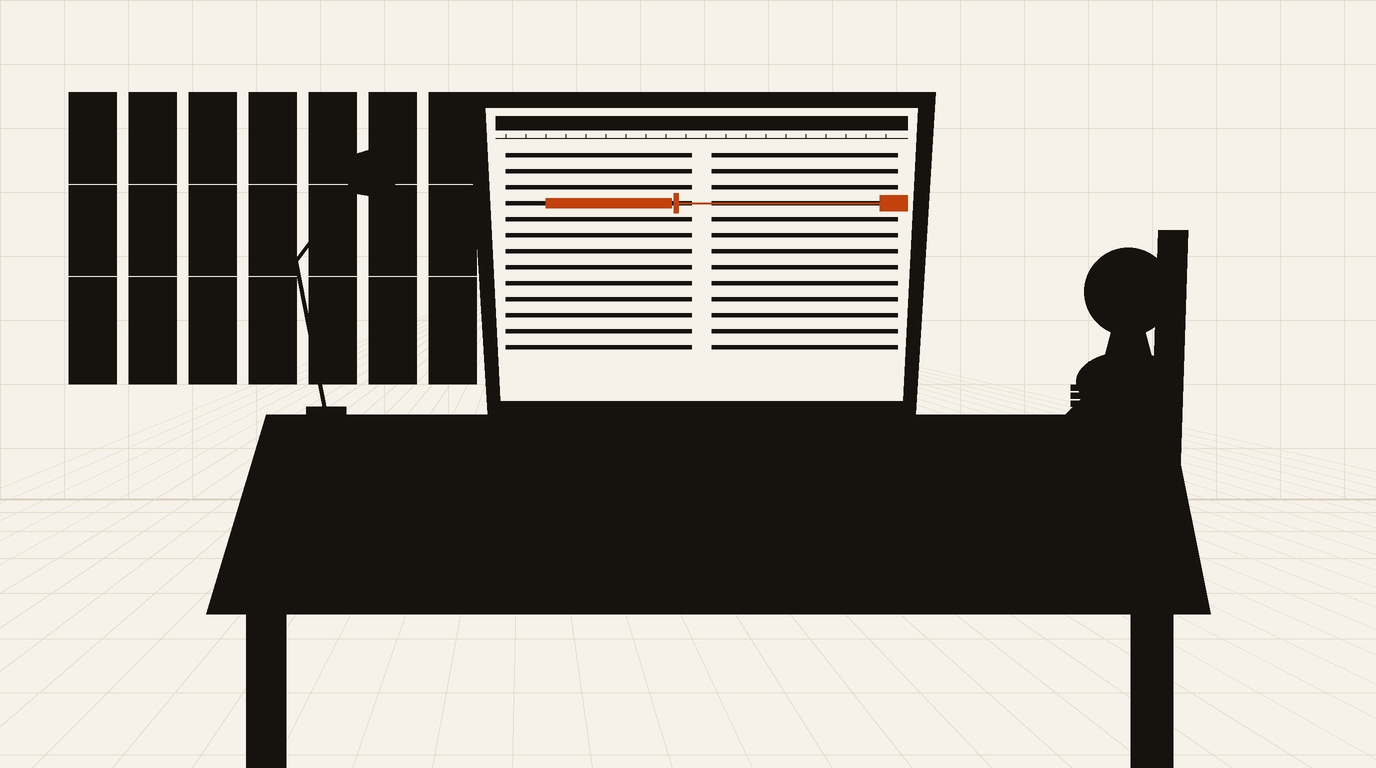
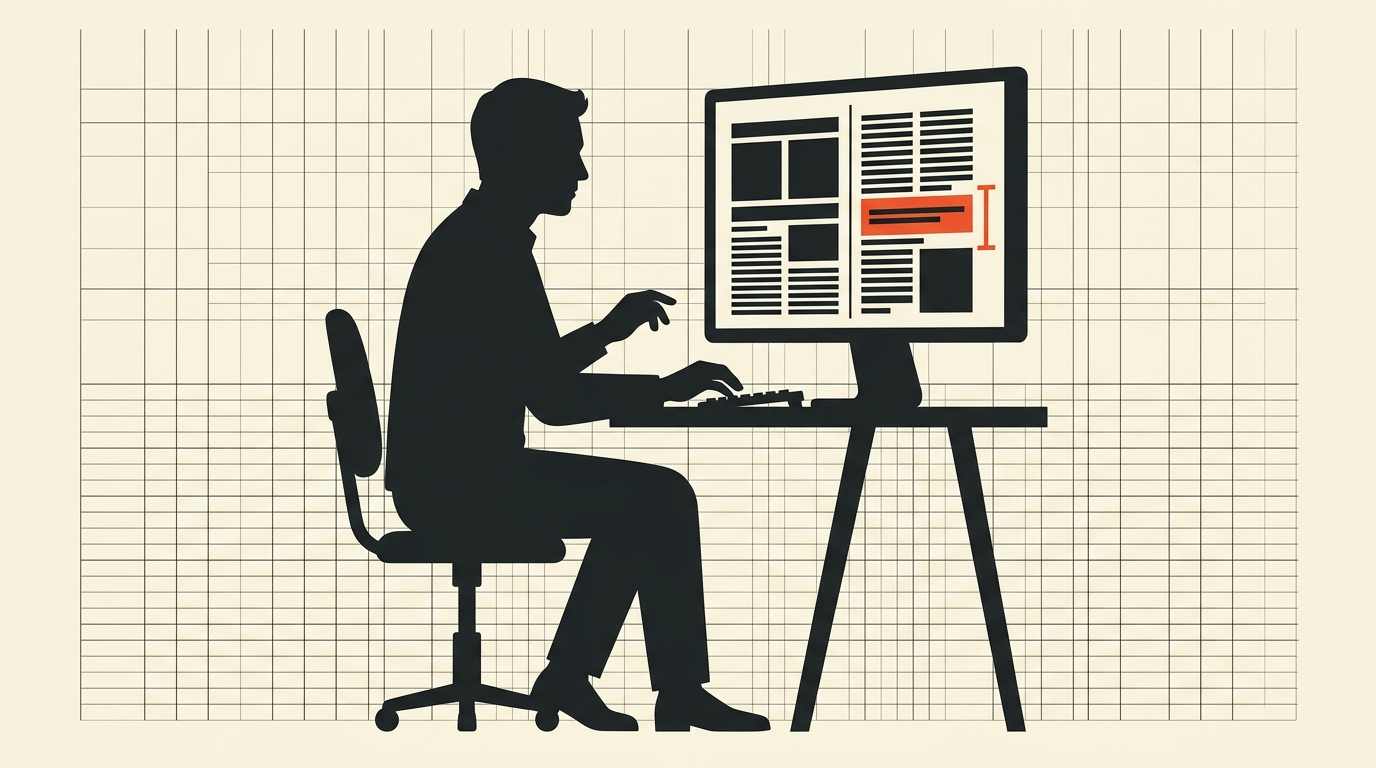
allen and dhruv

diff --git a/demo-news/src/content/news/allen-kota-classroom-gunfire-claim-fact-check.md b/demo-news/src/content/news/allen-kota-classroom-gunfire-claim-fact-check.md
@@ -30,7 +30,7 @@ featured: false
 trending: true
 ---
 
-**Short answer:** On October 16, 2026, a violent brawl erupted between two 11th-grade students at Allen Career Institute's Sabal campus in Kota. Viral social media posts claimed that a student opened fire with a live firearm. Local police confirmed that no gunshots occurred. An accused student pulled an air gun from his backpack and struck his classmate with the weapon handle. The physical assault caused severe facial and head injuries. Police detained the accused student on site, while the injured boy remains under medical care in an intensive care unit.
+**Short answer:** A violent fight broke out between two 11th grade students on October 16, 2026, at the Sabal campus of Allen Career Institute in Kota. Social media was rife with claims of one of the students using a real gun to shoot. However, according to the local authorities, there were no shots fired. One of the accused used an air gun to attack his fellow student by striking him with the gun itself. The attack left the victim injured in face and head areas.
 
 ## 1. What the viral post shows
 
@@ -38,37 +38,37 @@ The incident surfaced after mobile phone footage circulated widely across X and 
 
 Initial social media posts claimed that an 11th-grade Nurture batch student drew a handgun from his bag. The narrative claimed he shot a classmate in the neck following an argument over a female student.
 
-The viral clips captured chaos in the hallway. In the footage, a student lay bleeding on the floor while panicked classmates attempted to stem the blood loss.
+The videos showcased chaos reigning in the corridor. In the video, a student was lying on the floor bleeding while other frightened students tried to stop the bleeding.
 
-Social media users reacted with alarm over student safety in Kota's coaching district. User Yash Purohit wrote on X: 'Are Kota's coaching classrooms no longer safe? Extremely horrific scenes have emerged from the classroom at Kota's Allen Coaching Institute at first sight. Two students reported shooting in clash. One student's seriously injured. Students go there to build their future, not to fear for their safety. Who is responsible for this? Allen's a big name in the coaching industry, but here too serious concerns about safety are emerging. Case spreading fast on social media, though not officially confirmed yet. The quota administration and the Allen management should clarify the position on this matter as soon as possible.'
+Social media users were shocked regarding the safety of students in the coaching classes in Kota. Social media user Yash Purohit posted on X: 'Is it becoming unsafe in the coaching classrooms of Kota? Very horrific videos have come out from the classrooms of Kota's Allen Coaching Classes. First sight. Shooting in clash reported by two students. One student seriously injured. Students go there to create their future, not to worry about their safety. Who is behind this? Allen is a big brand name in the coaching world, but there also serious safety issues are emerging. This case spreading very fast on social media though not yet officially confirmed. Quota administration and Allen management must come out with their stand in this regard immediately.'
 
-Another commentator, Sachin Fagana, posted: 'There is bloodshed in Kota's allen coaching. Gun visible in boy's hand and one boy bleeding. Rajasthan has the most unsafe coaching yet no action is taken on it.'
+Sachin Fagana, stated, “There is violence at Allen coaching in Kota. A gun clearly visible in the hands of the boy and another boy bleeding heavily. In Rajasthan, there are violent coaching classes but no action is taken on it.”
 
-Inside the student community, eyewitness testimonies added further detail. On Reddit, student user u/DealerUnlucky1913 described witnessing the incident from the cafeteria: 'I was actually eating in the canteen when this shit happened (I am a student of Nurture)... I was shocked... after this incident, the whole staff came in our classes then started checking our phones, gallery, whatsapp chats, Instagram, and deleted any video that they saw.. this video somehow got saved... this is being suppressed by allen.'
+Within the student body, testimonies of eye-witnesses were available. On Reddit, student u/DealerUnlucky1913 wrote of his/her experience of witnessing the incident from the cafeteria, "I was actually eating in the canteen when this shit happened (I am a student of Nurture)... I was shocked... after this incident, the whole staff came in our classes then started checking our phones, gallery, whatsapp chats, Instagram and deleted any video that they saw.. this video somehow got saved... this is being suppressed by allen."
 
-Another student post by user u/fatcat_09 reported that the brawl originated inside a washroom. The altercation then spilled into the common canteen area. The post described an air gun being pulled, leading to severe head injuries and intense bleeding. These accounts circulated rapidly through regional student networks.
+Another student testimony, u/fatcat_09 on Reddit reported that the fight took place inside a washroom and then spilled over into the common cafeteria area and a gun was used which led to serious head injuries and heavy bleeding.
 
 ## 2. What the data actually says
 
-Kota police officials investigated the incident immediately and refuted the online claims of active gunfire. Investigators verified that no live ammunition was loaded, discharged, or present during the fight.
+Police officers in Kota promptly investigated the case and denied online claims of live firing at all. The police proved that there were no live rounds involved in this fight.
 
-Forensic analysis confirmed that the weapon was an air gun or a metal replica designed to mimic a real pistol. To students standing nearby, the object looked like a genuine firearm. However, it fired no bullets.
+Further investigation proved that the gun used was an air gun or a metal replica of a gun, which resembled an actual pistol. It appeared to be an actual pistol for the students who witnessed the scene, but the gun did not shoot any bullets.
 
-The injuries sustained by the victim stemmed entirely from blunt-force trauma. According to police reports, the accused student, who is from Uttar Pradesh, used the heavy butt of the metal object to strike the victim repeatedly.
+The wounds of the victim were caused purely through blunt-force injuries. The accused student from Uttar Pradesh used the butt of the metal object to beat the victim.
 
-The victim was identified by classmates as Ayush, an 11th-grade student from Bihar whose father serves in the Indian Army. Ayush sustained severe facial lacerations, deep cuts, and suspected jaw fractures. Fellow students pulled the attacker away before staff members reached the room.
+The victim was found to be Ayush, an 11th grade student from Bihar, whose father works in the Indian Army. He was badly injured in his face with severe cuts and possibly fractures in his jaw. Other students dragged the assailant from the classroom before teachers could enter the classroom.
 
-Emergency responders transported Ayush to a local private hospital. Doctors admitted him to the intensive care unit to manage blood loss and monitor head trauma. Hospital personnel confirmed that while his facial injuries required surgery, his vital signs remained stable.
+Ayush was taken to a private hospital where he was admitted into the ICU due to loss of blood and head injury. The doctors found out that though his facial injuries required surgery, his vitals were stable.
 
-Police detained the accused student on the campus grounds and seized the replica weapon for forensic review. While social media threads claimed the brawl was over a female student who did not know either boy, investigator interviews revealed a longer dispute. The two boys had traded verbal taunts and argued over classroom seating for five days prior to the clash.
+The police detained the accused on the campus itself and confiscated the replica weapon for forensic testing. While social media claimed that the brawl was due to a female student who did not know either boy, investigation revealed that the two boys had been arguing and taunting each other for the past five days over classroom seating.
 
 ## 3. What's missing / the footnote
 
-The Sabal campus brawl exposes two structural vulnerabilities within Kota's coaching system: physical security gaps and post-incident narrative suppression.
+The incident at the Sabal campus in Kota exposes two major problems in the coaching system: the lack of physical security and the suppression of incidents after they happen.
 
-Kota hosts more than 200,000 entrance exam aspirants every academic year. Rajasthan state guidelines require private coaching institutes to operate functional walk-through metal detectors and conduct bag checks. Yet an unauthorized metal air gun passed directly into a multi-story coaching building without detection. Students stated that entrance metal detector gates at Sabal were inactive or bypassed during the morning rush.
+Kota sees an excess of more than 200,000 entrance exam candidates each academic year. According to state policies in Rajasthan, private coaching institutions must have working metal detectors and bags must be checked. However, an illegal metal air gun was let into a multi-story coaching institution through security checks. Candidates say that metal detector gates in Sabal were either not working or bypassed in the morning hours.
 
-Furthermore, student testimonies highlighted a concerning institutional reaction. Rather than prioritizing trauma counseling, coaching personnel reportedly conducted phone checks at exit points. Students stated staff searched photo galleries and chat apps to delete recorded videos before students left the building.
+In addition to this, the student statements revealed a worrisome response from the institution. Instead of focusing on providing counseling to the traumatized students, coaching officials performed phone checks at exit points. Students alleged that the coaching officials deleted videos from photo galleries and chat applications.
 
 When high-tension incidents occur in competitive student hubs, online rumors spread much faster than official police findings. For similar patterns of student organizing after campus safety lapses, see our analysis of [the student claims behind the LPU campus unrest](/lpu-protest-fact-check/). For data on how viral crime posts diverge from documented police registries, see our breakdown of [Sweden's crime survey versus police records](/sweden-crime-survey-vs-police/).
 

diff --git a/demo-news/src/content/news/dhruv-rathee-london-protest-vote-chori-defamation-warrant.md b/demo-news/src/content/news/dhruv-rathee-london-protest-vote-chori-defamation-warrant.md
@@ -31,35 +31,34 @@ featured: true
 trending: true
 ---
 
-**Short answer:** YouTuber Dhruv Rathee has relocated his demonstration against Indian electoral roll revisions to the United Kingdom. On October 17, 2026, Rathee announced a rally outside London's Parliament Square near the Mahatma Gandhi statue. The gathering follows his temporary detention by Delhi Police on October 10. It also coincides with a Delhi court issuing bailable warrants against him in an unserved 2018 defamation lawsuit.
+**Short answer:** Indian YouTuber Dhruv Rathee has taken his protest against modifications to the Indian voter list to the UK. Rathee announced an upcoming rally at the Parliament Square in London, opposite the statue of Mahatma Gandhi, on October 17, 2026. The protest has come after Rathee’s temporary arrest by Delhi Police on October 10. The event is also coming amid bailable warrants issued against him in an outstanding 2018 defamation case.
 
 ## 1. What the viral post shows
 
-In a statement on X, Rathee said he had reached London. He asked supporters to gather at Parliament Square at noon on Saturday. He framed the assembly around the slogan 'vote chori' (vote theft). His post argued that Indian voter list revisions require international scrutiny.
+In his message on X regarding X, Rathee said he had made it to London. Rathee appealed to his supporters to assemble in Parliament Square at midday on Saturday. He used the slogan 'vote chori' (vote theft) while organizing the rally. In his post, Rathee claimed that Indian revision of voter lists needs international monitoring.
 
-The London call follows a tense week in the capital region. On October 10, Delhi Police detained Rathee at his Sector 56 residence in Gurugram. The action occurred ahead of an unpermitted rally planned by the Cockroach Janta Party (CJP) at Jantar Mantar.
+This call comes after a tense week in the capital city. On October 10, the Delhi Police arrested Rathee from his Sector 56 home in Gurugram. This move came following an unlawful demonstration organized by the Cockroach Janta Party (CJP) at Jantar Mantar.
 
-Rathee posted a video calling the police action a kidnapping. He stated officers took him away without formal charges before releasing him late that night.
+Rathee uploaded a video where he described the police move as kidnapping and claimed they took him without any charge being slapped against him and dropped him late that night.
 
-The dispute centers on the Election Commission's Special Intensive Revision (SIR) of voter lists. Opposition groups allege improper voter deletions and flawed registration protocols. The planned Delhi rally also caused the closure of Connaught Place market after traders cited safety worries.
+The whole controversy is centered around the SIR of voter lists undertaken by the Election Commission of India. There have been allegations of irregularities in the process. Even the scheduled rally in Delhi led to the closing of Connaught Place market due to security concerns by the traders.
 
 ## 2. What the data actually says
 
 Police records and court filings clarify the facts behind the detention and Rathee's legal standing.
 
-Delhi Police recorded Rathee's October 10 custody as preventative detention under police powers, not a formal arrest. Authorities cited the lack of required rally permits for the CJP demonstration against Chief Election Commissioner Gyanesh Kumar. Similar preventative actions halted other organizers across Delhi that morning. For details on those detentions, read our review of [the Jantar Mantar protest crackdown](/cjp-protest-crackdown-jantar-mantar-oct-10/).
+The police took Rathee into custody on October 10 under preventive detention laws and not as a formal arrest. This action was taken due to the CJP demonstration against the Chief Election Commissioner Gyanesh Kumar not having the necessary rally permits. In the same morning, police also detained other organizers in Delhi. For more details on those detentions, check out our review of [the Jantar Mantar protest crackdown](/cjp-protest-crackdown-jantar-mantar-oct-10/).
 
-Rathee also faces active court proceedings in Delhi. A metropolitan magistrate court recently issued bailable warrants against him in a private criminal defamation case filed in 2018. Complainant Vikas Sankrityayan founded the page 'I Support Narendra Modi'. He alleged Rathee's video 'BJP IT Cell Part 2' made defamatory claims regarding a 50 lakh rupee bribe.
+Additionally, Rathee is currently facing active court proceedings in Delhi. A metropolitan magistrate court recently issued bailable warrants against him in a private criminal defamation lawsuit from 2018. The complainant, Vikas Sankrityayan, is the founder of the page 'I Support Narendra Modi'. He alleged that Rathee's video titled 'BJP IT Cell Part 2' made defamatory claims against him regarding a bribe of fifty lakh rupees.
 
-Court records indicate summons remained unserved since July 2019 because Rathee lived abroad. When a court process server recently found his Gurugram home locked, the magistrate issued bailable warrants. The court listed the matter for hearing on October 31, 2026. The case previously named Arvind Kejriwal for retweeting the video. The Supreme Court stayed proceedings against Kejriwal in February 2024 after his counsel called the repost an error. Proceedings against Rathee remain active.
+According to court records, summons remained unserved since July 2019 as Rathee was living abroad. After a court process server recently found his home in Gurugram locked, the magistrate issued bailable warrants. The court has set the hearing for October 31, 2026. It is worth noting that the case had previously named Arvind Kejriwal for retweeting the video, but the Supreme Court stayed proceedings against Kejriwal in February 2024 after his lawyer claimed the repost was a mistake. However, the proceedings against Rathee are still active.
 
 ## 3. What's missing / the footnote
+“Vote chori” is a slogan rather than a judicial finding. According to the Election Commission, the Special Intensive Revision is a process done in accordance with statutory requirements for removal of deceased and relocated voters.
 
-The phrase 'vote chori' represents a political slogan rather than a judicially established fact. The Election Commission states that the Special Intensive Revision follows standard statutory procedures to remove deceased and relocated voters from registries.
+The organizers of the protests have yet to produce audited data that prove disenfranchisement of people in targeted constituencies. As the discussion on the transparency of the voting list goes on in the public domain, moving the protest from India’s national capital to London takes the matter to an international diplomatic level.
 
-Protest organizers have not presented audited datasets verifying systemic disenfranchisement across target constituencies. While public debate over voter list transparency continues, shifting the rally to London moves a domestic constitutional issue to a foreign diplomatic stage.
-
-Security forces also heavily restricted previous anti-SIR rallies in the capital. Read our earlier report on [the October mega protest crackdown in Delhi](/cjp-delhi-mega-protest-crackdown/).
+The security forces have also severely restricted past protests against the SIR in the capital. See our earlier report on [crackdown on mega protest in Delhi](/cjp-delhi-mega-protest-crackdown/).
 
 ## Sources to check yourself
 
